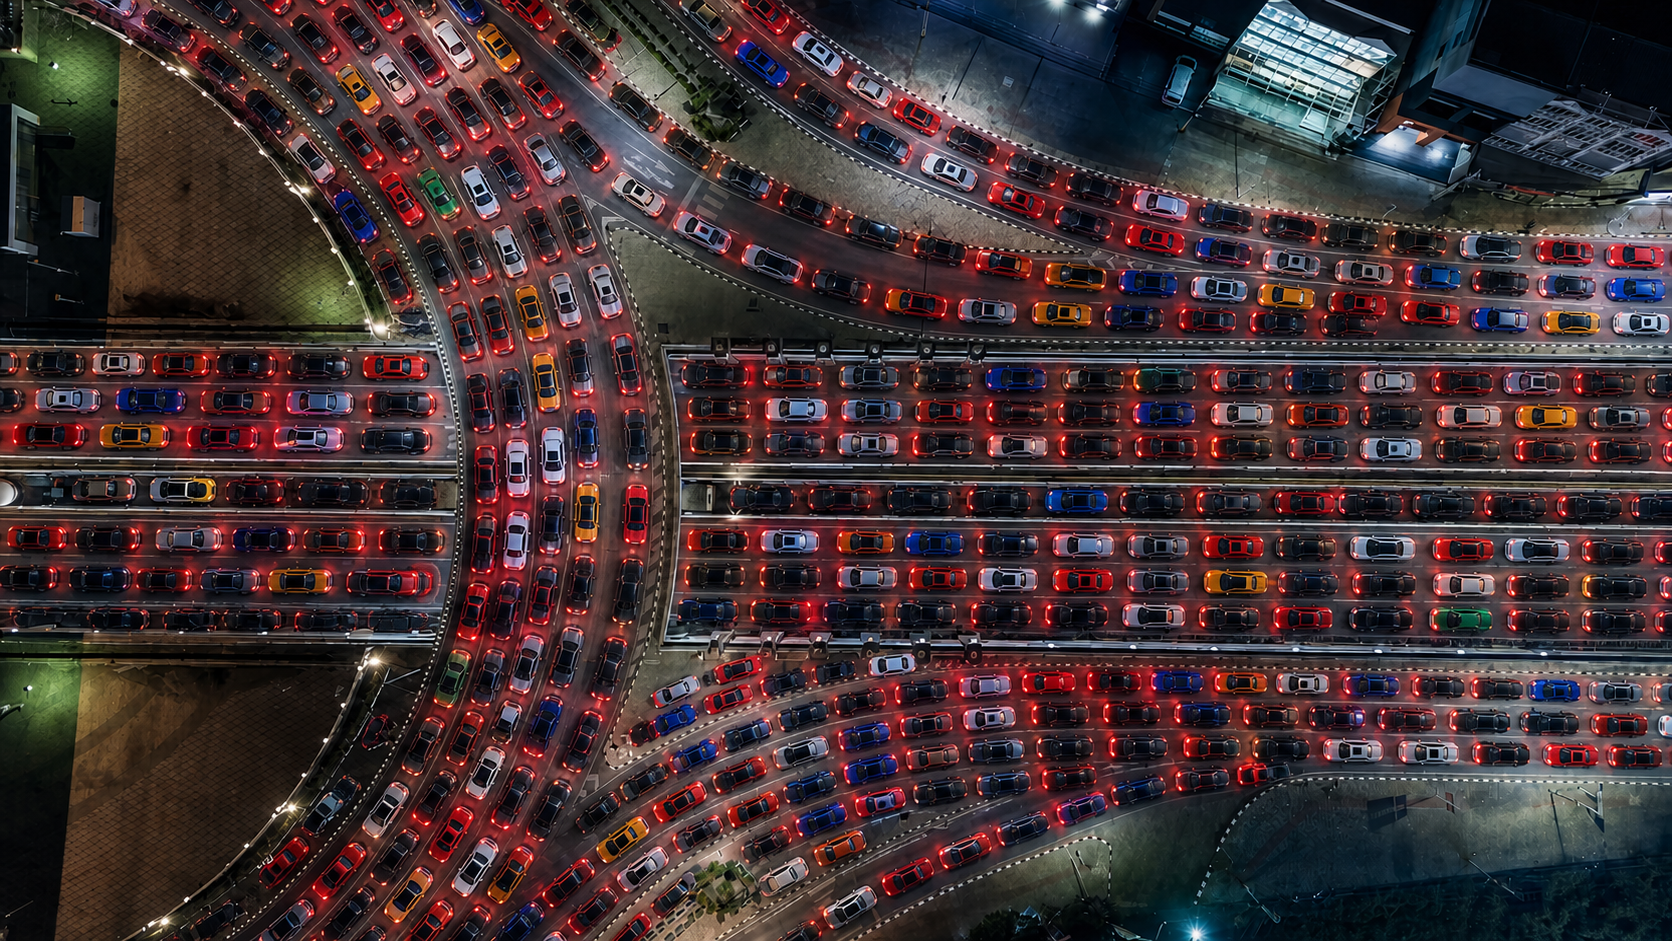
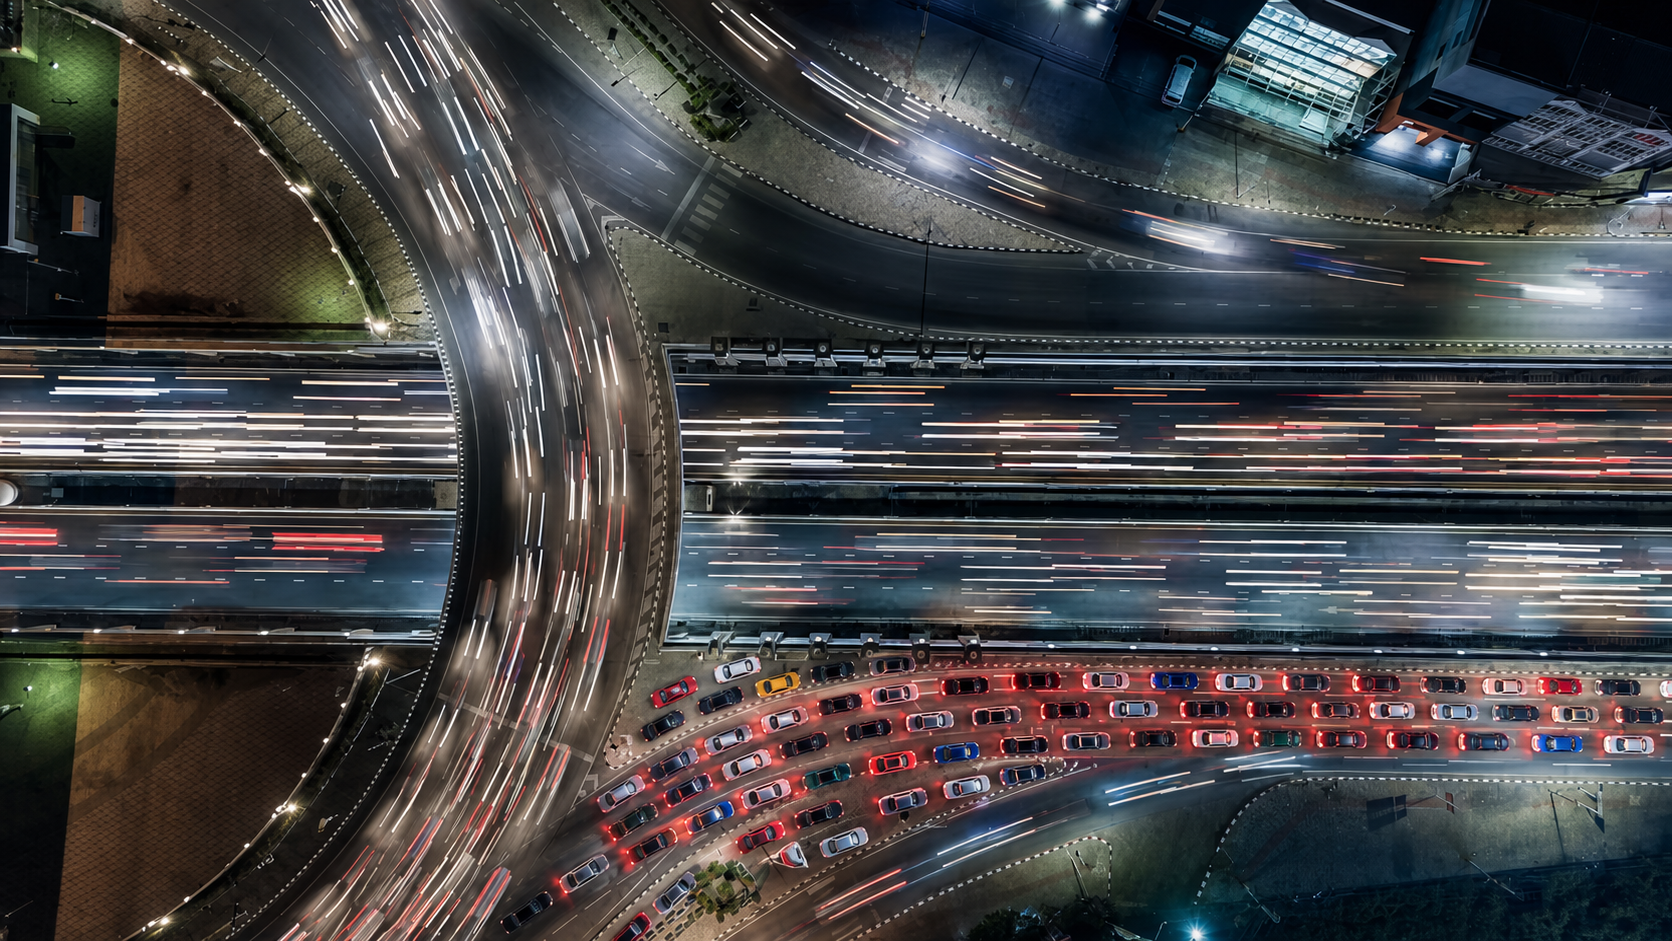
Add cover for the 10x era article
Amp-Thread-ID: https://ampcode.com/threads/T-01a00167-659a-730c-83bc-258bef2d9110

diff --git a/src/content/post/ten-times-more-what.md b/src/content/post/ten-times-more-what.md
@@ -5,7 +5,7 @@ description: "Coding agents make code cheaper. The real opportunity is to improv
 draft: true
 coverImage:
   src: ./ten-times-more-what.png
-  alt: "Aerial view of sports cars gridlocked across every lane of a multilayer interchange."
+  alt: "Aerial view of sports cars gridlocked on one interchange while traffic streaks past around them."
 ---
 
 You are a software engineering leader walking out of a meeting where everyone
